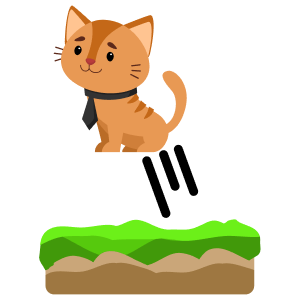
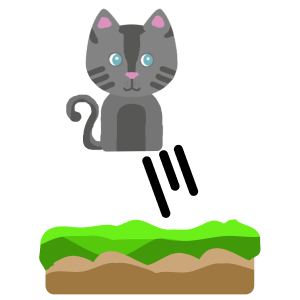
[feat] scene5: add motion and physics for cat jump

Changed region(s): [[0.18, 0.0, 0.63, 0.51]]

diff --git a/js/scene5.js b/js/scene5.js
@@ -1,0 +1,172 @@
+function scene5_platform(stage, y){
+    var pf = new createjs.Bitmap("assets/scene5/platform.png");
+    pf.x = math.random(0, scalingWidth(stage) - 80.66);
+    pf.y = y;
+    return pf;
+}
+
+function scene5(){
+    var stage = new createjs.Stage("canvas");
+    stage.enableMouseOver();
+
+    // ##### CONFIGURATION ##########################################
+
+    // add configuration here
+
+    // ##### ASSET CREATION ##########################################
+
+    var bg = new createjs.Bitmap("assets/scene5/background.png");
+    bg.name = "bg";
+    stage.addChild(bg);
+
+    var cat = new createjs.Bitmap("assets/scene5/cat.png");
+    cat.name = 'cat';
+    cat.regX = 43.2 / 2;
+    cat.regY = 56;
+    stage.addChild(cat);
+
+    // ##### ACTION REGISTER #########################################
+
+    createjs.Ticker.addEventListener("tick", update);
+
+    var cheight = 1; // current height
+    var pheight = 100; // platform height
+    var vplatform = 1; // velocity of platform 
+    var platforms = [];
+
+    var time = 0;
+    var frame = -1;
+    var cfrm = 0;
+    var g = 0.6 * stage.scale;
+    var ycat = 0;
+    var vcat = 14 * stage.scale;
+
+    update({time:0});
+    for(cheight=0; cheight < 640 && cheight % pheight == 0; 
+        cheight += pheight - (cheight % pheight)){
+            var y = 640 - (cheight % 640);
+            var pf = scene5_platform(stage, y);
+            platforms.push(pf);
+            stage.addChild(pf);
+
+            if(platforms.length == 3){
+                cat.y = ycat = y + (stage.scale * 5);
+                cat.x = pf.x + (80.66 / 2);
+            }
+            // console.log(`init: ${y} || ${cheight % 640}`);
+    }
+
+    cheight = 640;
+
+    document.addEventListener('keypress', hdlkey);
+    document.addEventListener('keydown', hdlkey);
+    window.addEventListener('deviceorientation', hdldevor);
+
+    function hdldevor(e){
+        var gm = e.gamma;
+        if(gm < -45) gm = -45;
+        else if(gm > 45) gm = 45;
+
+        if(gm < 0) moveLeft(-gm * 2 * bg.scale / 45);
+        else moveRight(gm * 2 * bg.scale / 45);
+
+        console.log("hehe");
+    }
+
+    function hdlkey(e){
+        console.log(e);
+        if(e.key == "ArrowLeft") moveLeft(2 * bg.scale);
+        else if(e.key == "ArrowRight") moveRight(2 * bg.scale);
+    }
+
+    function isPass(x, y, x0, x1, y0, y1){
+        return x >= x0 && x <= x1 && y >= y0 && y <= y1;
+    }
+
+    function moveRight(v){
+        cat.x += v;
+        if(cat.x > 360 * stage.scale) cat.x = 0;
+    }
+    function moveLeft(v){
+        cat.x -= v;
+        if(cat.x < 0 * stage.scale) cat.x = 360 * stage.scale;
+    }
+
+    function restart(e){
+        stop();
+        stage.canvas = null;
+        window.stage = scene5();
+    }
+
+    function updateStage(e){
+        time = e.time / 1000;
+        // document.title = time;
+
+        if(cheight % pheight == 0){
+            var y = (640 % pheight);
+            var pf = scene5_platform(stage, y);
+            platforms.push(pf);
+            stage.addChild(pf);
+            // console.log(`update: ${y} || ${cheight % 640}`);
+        }
+
+        var t = frame - cfrm;
+        var vt = vcat - (g * t);
+        cat.y = ycat - ((vcat * t) - (g * t * t / 2));
+
+        for(i=0; i<platforms.length; i++){
+            platforms[i].y+=vplatform;
+
+            if(vt < 0){
+                // console.log("Line 87");
+                var pos = platforms[i].globalToLocal(cat.x, cat.y);
+                // if(platforms[i].hitTest(pos.x, pos.y)){
+                if(isPass(cat.x, cat.y, 
+                          platforms[i].x, platforms[i].x + (80.66 * stage.scale), 
+                          platforms[i].y, platforms[i].y + (27.34 * stage.scale))){
+                    ycat = platforms[i].y;
+                    cfrm = frame;
+                    // stop()
+                }
+
+            }
+
+            if(platforms[i] >= 640){
+                platforms[i].parent.removeChild(platforms[i]);
+                platforms.shift();
+            }
+        }
+
+        cheight+=vplatform;
+        frame++;
+    }
+
+    function update(e){
+        updateResolution(stage);
+        stage.scale = stage.canvas.height / 640;
+
+        if(cat.y < 640) updateStage(e);
+        else {
+            restart();
+            console.log('restart');
+        }
+    
+        stage.update();
+    }
+
+    function stop(){
+        createjs.Ticker.removeEventListener("tick", update);
+        stage.enableDOMEvents(false);
+        stage.enableMouseOver(false);
+        document.removeEventListener('keypress', hdlkey);
+        document.removeEventListener('keydown', hdlkey);
+        window.removeEventListener('deviceorientation', hdldevor);
+        // createjs.Touch.disable(stage);
+    }
+
+    return {
+        stage,
+        update,
+        stop
+    };
+}

diff --git a/js/scene1.js b/js/scene1.js
@@ -67,6 +67,13 @@ function scene1_mainkan({stage, stop}){
     var btnCatJump = scene1_mainkan_game('Cat Jump', 'assets/scene1/CatJump.png');
     btnCatJump.scale = 0.3;
     btnCatJump.y = (300 + 96) * 0.3;
+    btnCatJump.addEventListener('click', function(e){
+        stop();
+        stage.enableDOMEvents(false);
+        stage.enableMouseOver(false);
+        stage.canvas = null;
+        window.stage = scene5();
+    });
 
     var btnGoalQuest = scene1_mainkan_game('Goal Quest', 'assets/scene1/GoalQuest.png');
     btnGoalQuest.scale = 0.3;
@@ -110,6 +117,7 @@ function scene1(stages){
     btnBuku.addEventListener('click', function(e){
         stop();
         stage.enableDOMEvents(false);
+        stage.enableMouseOver(false);
         stage.canvas = null;
         window.stage = scene2();
     });

diff --git a/js/_scene.js b/js/_scene.js
@@ -2,6 +2,10 @@ function scene3(){
     var stage = new createjs.Stage("canvas");
     stage.enableMouseOver();
 
+    // ##### CONFIGURATION ##########################################
+
+    // add configuration here
+
     // ##### ASSET CREATION ##########################################
 
     // code here
@@ -12,6 +16,7 @@ function scene3(){
 
     function update(){
         updateResolution(stage);
+        stage.scale = stage.canvas.height / 640;
 
         // code here
     
@@ -20,6 +25,9 @@ function scene3(){
 
     function stop(){
         createjs.Ticker.removeEventListener("tick", update);
+        stage.enableDOMEvents(false);
+        stage.enableMouseOver(false);
+        createjs.Touch.disable(stage);
     }
 
     return {

diff --git a/js/scene3.js b/js/scene3.js
@@ -3,7 +3,7 @@ function scene3(){
     stage.enableMouseOver();
     createjs.Touch.enable(stage);
 
-    // CONFIGURATION
+    // ##### CONFIGURATION ##########################################
 
     var list = {
         "Id Bigunnah": ["#753e04", "Mim!.png", "Nun!.png", "Wau!.png", "Yaa!.png"],
@@ -131,6 +131,7 @@ function scene3(){
         stop();
         stage.enableDOMEvents(false);
         stage.enableMouseOver(false);
+        createjs.Touch.disable(stage);
         stage.canvas = null;
         window.stage = scene3();
     }

diff --git a/index.html b/index.html
@@ -46,6 +46,7 @@
     <script src="js/scene2.js"></script>
     <script src="js/scene3.js"></script>
     <script src="js/scene4.js"></script>
+    <script src="js/scene5.js"></script>
     <script>
         window.stage = scene1();
     </script>
